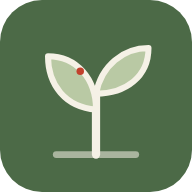
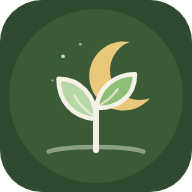
Add files via upload

diff --git a/index.html b/index.html
@@ -227,7 +227,7 @@ dialog h3{font-family:"Fraunces",Georgia,serif;font-size:1.05rem;margin:20px 0 4
 <div class="wrap">
   <header class="top">
     <div class="brand">
-      <svg viewBox="0 0 32 32" aria-hidden="true"><path d="M16 29V15" stroke="var(--moss)" stroke-width="2.2" stroke-linecap="round" fill="none"/><path d="M16 18c-6-1-9-5-9-10 5 0 9 4 9 10z" fill="var(--leaf)" stroke="var(--moss)" stroke-width="1.6"/><path d="M16 15c1-5 5-8 10-8 0 5-4 8-10 8z" fill="var(--leaf)" stroke="var(--moss)" stroke-width="1.6"/></svg>
+      <svg viewBox="0 0 32 32" aria-hidden="true"><path d="M23 4.5a6.5 6.5 0 1 0 3.8 10.6A5.2 5.2 0 1 1 23 4.5z" fill="var(--honey)"/><path d="M14 29V19" stroke="var(--moss)" stroke-width="2.2" stroke-linecap="round" fill="none"/><path d="M14 22c-5-.3-8-4-8-8.5 4.6 0 8 3.6 8 8.5z" fill="var(--leaf)" stroke="var(--moss)" stroke-width="1.6" stroke-linejoin="round"/><path d="M14 19.5c.7-4.4 4-7 8.2-7 0 4.5-3.5 7.2-8.2 7z" fill="var(--leaf)" stroke="var(--moss)" stroke-width="1.6" stroke-linejoin="round"/></svg>
       Bahçem
     </div>
     <nav class="tabs" aria-label="Bölümler">
@@ -453,7 +453,10 @@ function backfill(){
 }
 
 /* ---------- sync (Supabase, optional) ---------- */
-const CFG = window.BAHCEM_CONFIG || {};
+const CFG = Object.assign({}, window.BAHCEM_CONFIG || {});
+/* Only the https://xxxx.supabase.co part is used, so a pasted /rest/v1/ or stray space can't break sync. */
+try { CFG.supabaseUrl = new URL(String(CFG.supabaseUrl || "").trim()).origin; } catch(e){ CFG.supabaseUrl = ""; }
+CFG.supabaseAnonKey = String(CFG.supabaseAnonKey || "").trim();
 const SB_ON = !!(CFG.supabaseUrl && CFG.supabaseAnonKey && window.supabase);
 let sb = null, session = null, syncing = false, lastSync = null, syncMsg = "", pushTimer = null;
 let meta = {dirty:{}, base:{}};

diff --git a/sw.js b/sw.js
@@ -1,6 +1,6 @@
 // Bahçem service worker: uygulamayı telefonda saklar, internetsiz de açılmasını sağlar.
 // index.html'i değiştirdiğinde VERSION'ı bir artır ki telefonlar yeni sürümü alsın.
-const VERSION = "bahcem-v1";
+const VERSION = "bahcem-v3";
 const SHELL = [
   "./",
   "./index.html",
@@ -32,8 +32,22 @@ self.addEventListener("fetch", event => {
   // Veritabanı istekleri her zaman ağdan gider, asla önbelleğe alınmaz.
   if (url.hostname.endsWith("supabase.co") || url.hostname.endsWith("supabase.in")) return;
 
+  // config.js her zaman önce ağdan alınır, böylece değişiklikler hemen görünür.
+  if (url.origin === self.location.origin && url.pathname.endsWith("/config.js")) {
+    event.respondWith(
+      fetch(req).then(res => {
+        const copy = res.clone();
+        caches.open(VERSION).then(c => c.put(req, copy));
+        return res;
+      }).catch(() => caches.match(req))
+    );
+    return;
+  }
+
   // Sayfanın kendisi: önce ağ (güncel sürüm), ağ yoksa önbellek.
-  if (req.mode === "navigate") {
+  const scopePath = new URL(self.registration.scope).pathname;
+  const isApp = url.pathname === scopePath || url.pathname === scopePath + "index.html";
+  if (req.mode === "navigate" && isApp) {
     event.respondWith(
       fetch(req).then(res => {
         const copy = res.clone();
